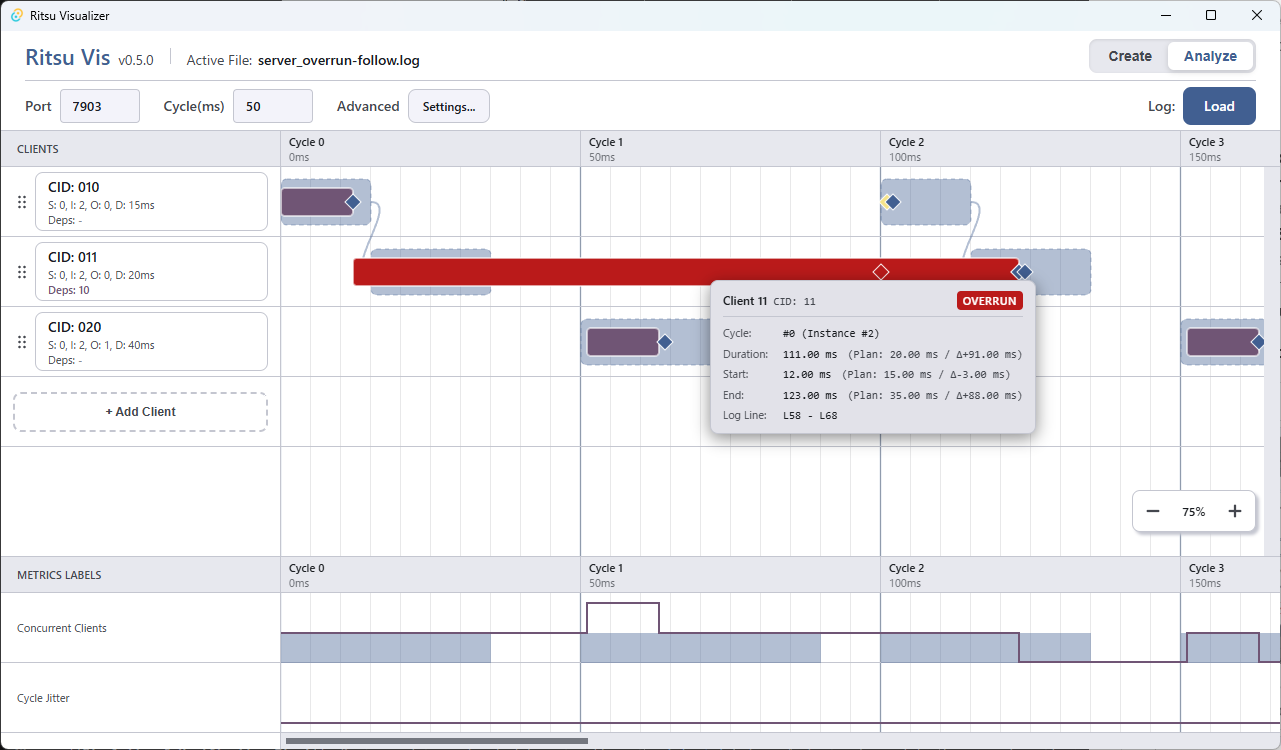
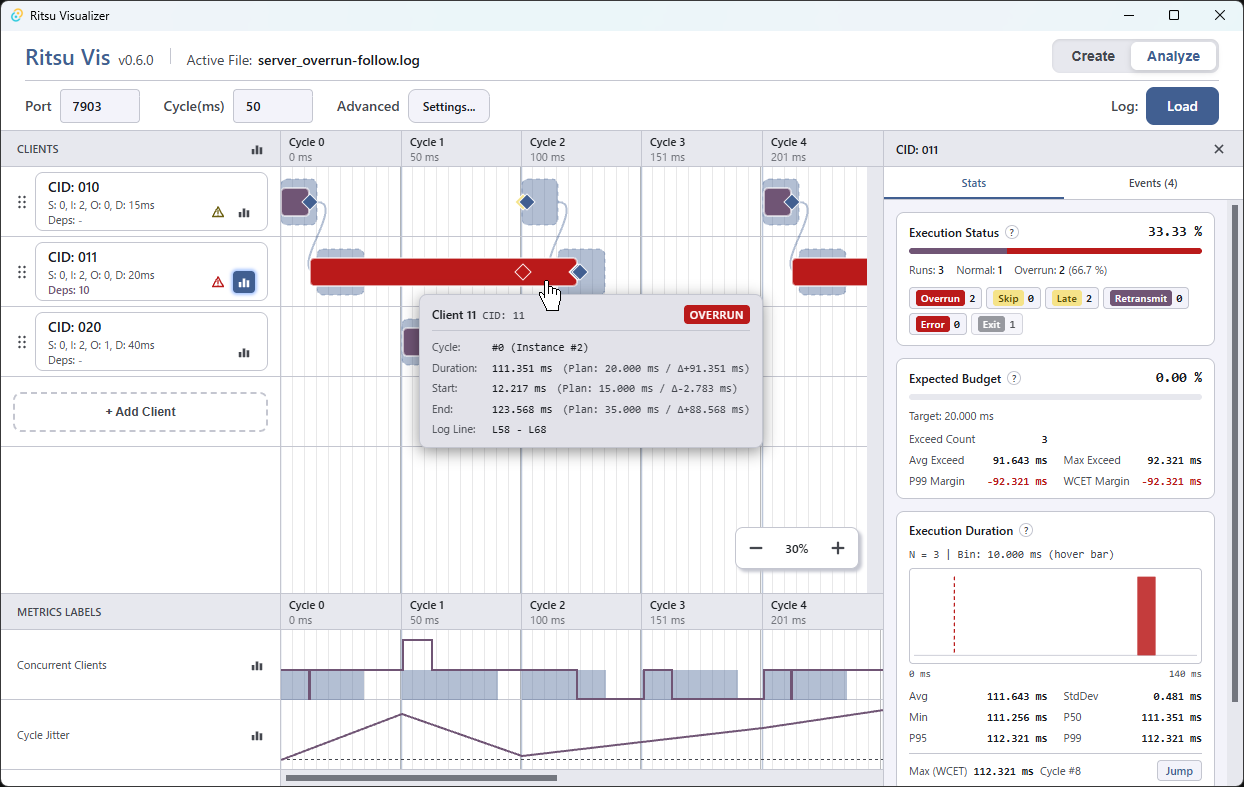
docs: update visualizer highlights and screenshots in README
- Expand the feature overview to cover visual schedule design, execution log overlay, and quantitative timing statistics.
- Reorganize visualizer highlights into separate Create and Analyze mode tables with refreshed screenshots.
- Update quickstart inspection guidance and repository overview to reflect log analysis and statistics capabilities.

diff --git a/README.md b/README.md
@@ -21,14 +21,68 @@ Note: Ritsu targets predictable, soft real-time coordination and reproducible ex
 - **Multi-Language Support**: A simple messaging protocol supporting multiple programming languages.
   - Modular transport support (UDP-based by default).
   - This repository includes sample clients for **Rust**, **Python**, and **C/C++**.
-- **Simulation & Visualization**: Advanced tools for system planning and scheduling analysis.
+- **Simulation & Visualization**: Interactive GUI for designing schedules and analyzing runtime execution.
+  - Visual schedule editing and simulation with real-time timing validation.
+  - Execution log overlay against planned schedules with microsecond-precision timing deltas.
+  - Quantitative statistics (duration percentiles, budget margins, concurrency, cycle jitter) with instant jump to anomalies.
 
 **Visualizer Highlights:**
 
-| Create Mode | Analyze Mode |
-| :---: | :---: |
-| <img src="docs/assets/rt-vis_create-process-edit.png" width="350" /><br />Configure process periods, execution times, and dependencies interactively. | <img src="docs/assets/rt-vis_analyze-actual-overlay.png" width="350" /><br />Overlay actual execution logs onto scheduled plans to inspect timing deltas. |
-| <img src="docs/assets/rt-vis_create-realtime-validation.png" width="350" /><br />Interactive drag-and-drop editing immediately highlights deadline overruns and cascading delays. | <img src="docs/assets/rt-vis_analyze-concurrency.png" width="350" /><br />Track planned vs. actual concurrency to identify system load peaks and execution bottlenecks. |
+<table>
+  <thead>
+    <tr>
+      <th colspan="2">Create Mode</th>
+    </tr>
+  </thead>
+  <tbody>
+    <tr>
+      <td align="center" width="50%">
+        <img src="docs/assets/rt-vis_create-client-edit.png" width="400" /><br />
+        <strong>Client &amp; DAG Configuration</strong><br />
+        Configure client intervals, offsets, start cycles, expected durations, and DAG dependencies interactively.
+      </td>
+      <td align="center" width="50%">
+        <img src="docs/assets/rt-vis_create-realtime-validation.png" width="400" /><br />
+        <strong>Real-Time Validation &amp; Planned Load</strong><br />
+        Drag-and-drop editing immediately highlights deadline overruns and skipped cycles alongside planned concurrency metrics.
+      </td>
+    </tr>
+  </tbody>
+</table>
+
+<table>
+  <thead>
+    <tr>
+      <th colspan="2">Analyze Mode</th>
+    </tr>
+  </thead>
+  <tbody>
+    <tr>
+      <td align="center" width="50%">
+        <img src="docs/assets/rt-vis_analyze-actual-overlay.png" width="400" /><br />
+        <strong>Actual vs. Planned Overlay &amp; Client Stats</strong><br />
+        Overlay actual execution logs onto planned schedules with microsecond deltas, expected budget margins, and duration histograms.
+      </td>
+      <td align="center" width="50%">
+        <img src="docs/assets/rt-vis_analyze-system-health.png" width="400" /><br />
+        <strong>System Health Overview</strong><br />
+        Inspect clean cycle rates, aggregated anomaly counts, and per-client health status at a glance.
+      </td>
+    </tr>
+    <tr>
+      <td align="center" width="50%">
+        <img src="docs/assets/rt-vis_analyze-events.png" width="400" /><br />
+        <strong>Anomaly Filtering &amp; Timeline Jump</strong><br />
+        Filter anomaly events and jump directly to the exact cycle on the timeline.
+      </td>
+      <td align="center" width="50%">
+        <img src="docs/assets/rt-vis_analyze-jitter-concurrency.png" width="400" /><br />
+        <strong>Cycle Jitter &amp; Concurrency Analysis</strong><br />
+        Track cycle-to-cycle jitter bias, percentiles, and distribution alongside planned vs. actual concurrency.
+      </td>
+    </tr>
+  </tbody>
+</table>
 
 ## Why Ritsu?
 
@@ -71,7 +125,7 @@ Experience Ritsu's deterministic scheduling through self-contained reference dem
      ```
 
 2. **Inspect with the visualizer (`rt-vis`)**:  
-   Launch `rt-vis` and open `demo/<demo-name>/logs/rt-server.log` in **Analyze** mode to inspect scheduled vs. actual timelines, safety slack margins, and `SKIP` behavior:
+   Launch `rt-vis` and open `demo/<demo-name>/logs/rt-server.log` in **Analyze** mode to inspect scheduled vs. actual timelines, timing and jitter statistics, budget margins, and anomaly events:
    - **Pre-built binary (Windows):** Download the latest release from [GitHub Releases](https://github.com/nao-kawano/ritsu-scheduler/releases) and run `rt-vis.exe`.
    - **From source (Windows / Linux / macOS, requires Node.js >= 18):**
      ```bash
@@ -131,7 +185,7 @@ sequenceDiagram
 - **[rt-client-rs](./rt-client-rs)**: Client library for Rust.
 - **[rt-client-py](./rt-client-py)**: Client library for Python.
 - **[rt-client-c](./rt-client-c)**: Client library for C/C++.
-- **[rt-vis-rs](./rt-vis-rs)**: Tauri-based visualizer application for process scheduling simulation and configuration editing.
+- **[rt-vis-rs](./rt-vis-rs)**: Tauri-based visualizer application for schedule configuration, simulation, execution log analysis, and timing statistics.
 - **[demo](./demo)**: Reference demos showcasing multi-language DAG orchestration and external data-plane integration.
 
 ## Documentation
